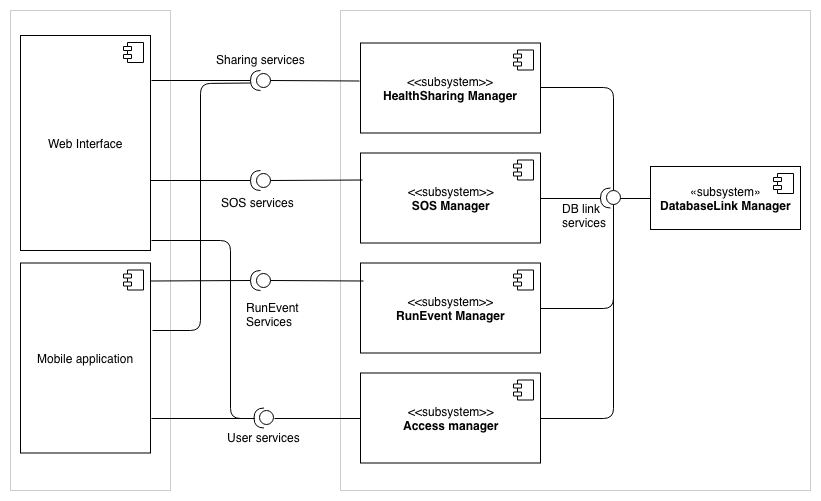
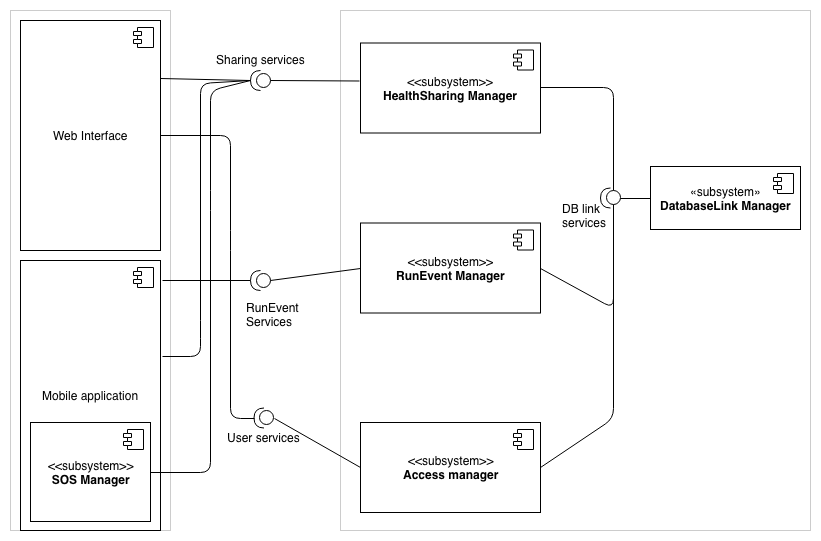
dd updated

diff --git a/DD/Architectural design.tex b/DD/Architectural design.tex
@@ -3,7 +3,7 @@
 \section{Architectural design}
 \subsection{Overview: High-level}
 
-The system is going to be implemented with a three tier architecture. \newline Tier are briefly described by the following schemas.
+The system is going to be implemented with a three tier architecture. \newline Tiers are briefly described by the following schemas.
 
 \begin{figure}[h!]
 	\centering
@@ -11,12 +11,12 @@ The system is going to be implemented with a three tier architecture. \newline T
 	\caption{High level view of the system's architecture}
 \end{figure}
 
-The decision behind this kind of architecture has been taken in order to build the system in the most modular possibile way. Here are described layers organisation:
+The decision behind this kind of architecture has been taken in order to build the system in the most modular possibile way. Here is described the organisation of the layers: 
 
 \begin{itemize}
 	\item \textit{Presentation layer}:\begin{itemize}
 			\item {Individuals}: an iOS application which contains a view of the entire system;
-			\item {Third-parties}: a web interface where  manage authorisation to communicate with the system.
+			\item {Third-parties}: a web interface to access to own private profile and find the endpoints to communicate with for acquiring the information of interest.
 			\end{itemize}
 	\item \textit{Logic layer}: logic layer will implement all the logic of the entire system and will handle communications between clients' app and the data layer.
 	\item \textit{Data layer}: data layer will be implemented in third-party's cloud system and will keep persistent users' data.
@@ -49,7 +49,7 @@ HealthSharing manager is composed of three main submodules: \begin{itemize}
 	\item Data Elaboration Module.
 \end{itemize}
 
-The \textit{Access Policy Manager Module} works as a manager of all the policies associated with data sharing. It provides the list of active sharing to users and it let them manage active policies such as accepting new sharing request or change/delete active policies. Moreover, this component is also used by third-parties that have to be able to subscribe to users data.\\
+The \textit{Access Policy Manager Module} works as a manager of all the policies associated with data sharing. It provides the list of active sharing to users and it let them manage active policies such as accepting new sharing request or change/delete active policies.\\
 The \textit{Data Manager Module} has to handle all the operations of retrieving/storing data between users' app and databases. It also has to guarantee data consistency in the whole system.
 	\\
 The \textit{Data Elaboration Module} has to handle the operations devoted to  data anonymisation and manage the requests of aggregated data from third-parties.
@@ -131,7 +131,7 @@ The Deployment diagram emphasises the nodes on which the platform runs;\\
 \textbf{InHouse} box represents the components developed inside the company while 
 the components in the \textbf{External} box are on-demand softwares.\\
 \begin{itemize}
-\item	\textbf{Smartphone}: the application deployed on the iOS smartphone used by the user. Users are able to retrieve data from the application server and also from the external API directly (e.g. maps by Google);
+\item	\textbf{Smartphone}: the application deployed on the iOS smartphone used by individuals. Users are able to retrieve data from the application server and also from external APIs directly;
 \item \textbf{Web Browser API Interface}: a web page for third-parties registration. It provides a secret to do a request to the API Server;
 \item \textbf{Application Server}: the  main logic core of the application. It’s the only access point to the DB but it also communicates with the external server API;
 \item  \textbf{External Services}: both the external services are represented as  blackboxes because we don't know how they are implemented.

diff --git a/DD/DD.tex b/DD/DD.tex
@@ -28,7 +28,7 @@
 	\title{TrackMe \\ Software Engineering 2 Project \\ 
 			\textit{DD Document}}
 	\author{Stefano Martina, Alessandro Nichelini, Francesco Peressini
-		\\ \\ A.Y. 2018/2019 \\ Version 1.0.0}
+		\\ \\ A.Y. 2018/2019 \\ Version 1.0.1}
 		
 \maketitle
 \newpage
@@ -38,7 +38,6 @@
 
 \subfile{"Introduction.tex"}
 \subfile{"Architectural design.tex"}
-\subfile{"AlgorithmDesign.tex"}
 \subfile{"User interface design.tex"}
 \subfile{"Requirements traceability.tex"}
 \subfile{"Implementation, integration and test plan.tex"}

diff --git a/DD/Introduction.tex b/DD/Introduction.tex
@@ -42,7 +42,8 @@ Both AutomatedSOS and Track4Run exploit the features offered by Data4Help.
 
 \subsection{Revision history}
 \begin{itemize}
-		\item 1.0.0 Initial version (10/12/2018)
+		\item 1.0.0 - Initial version (10/12/2018)
+		\item 1.0.1 - Updated ER scherma image and component view diagram (SOS Manager module is implemented client side) (10/01/2019)
 \end{itemize}
 
 \subsection{Reference Documents} 
